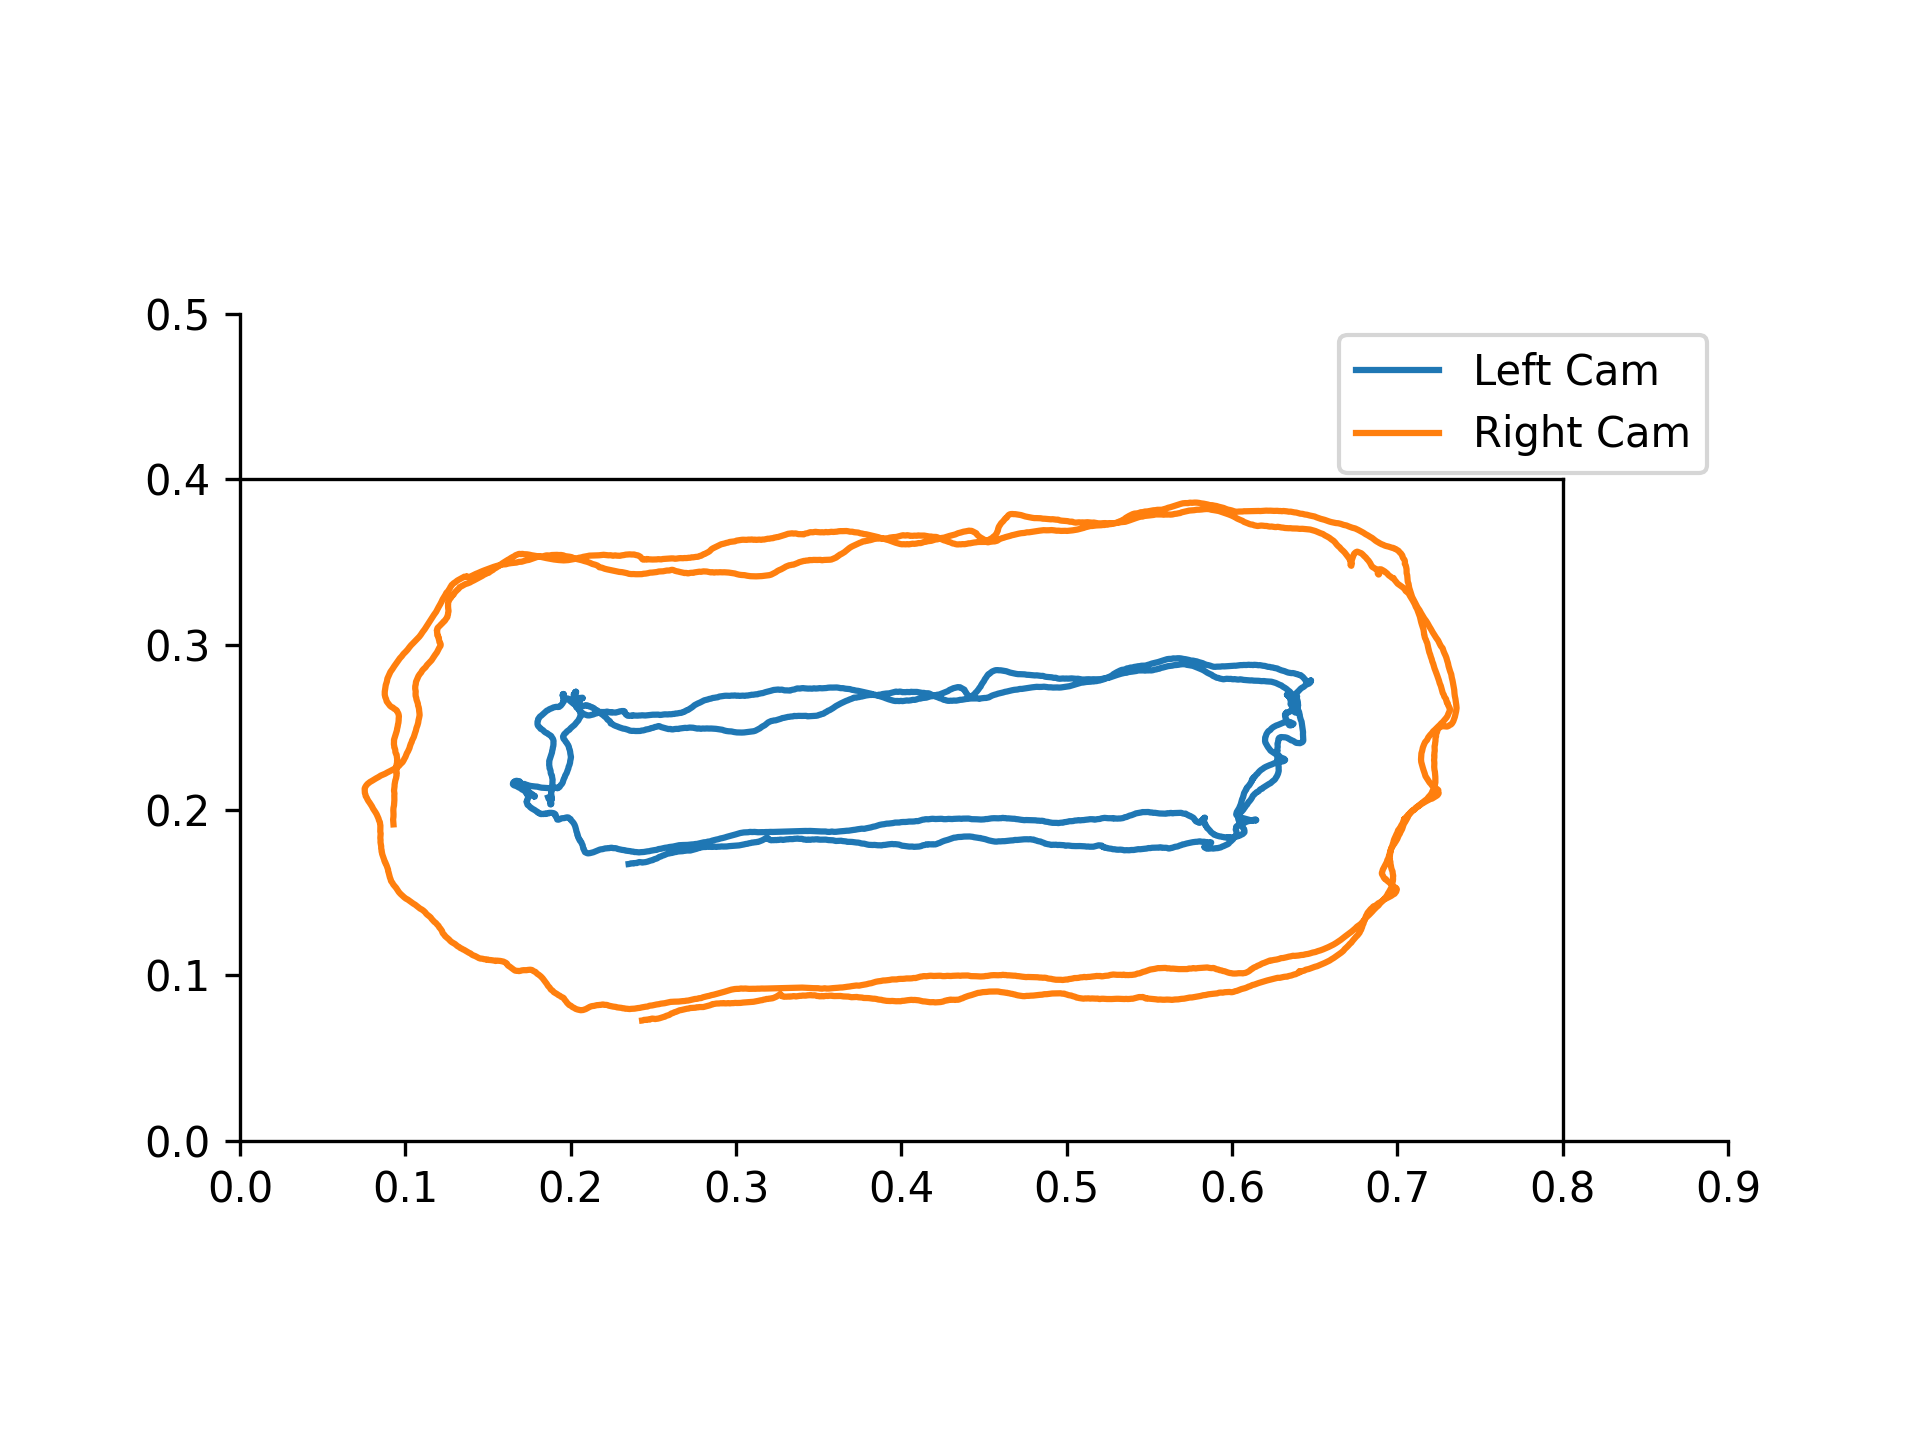
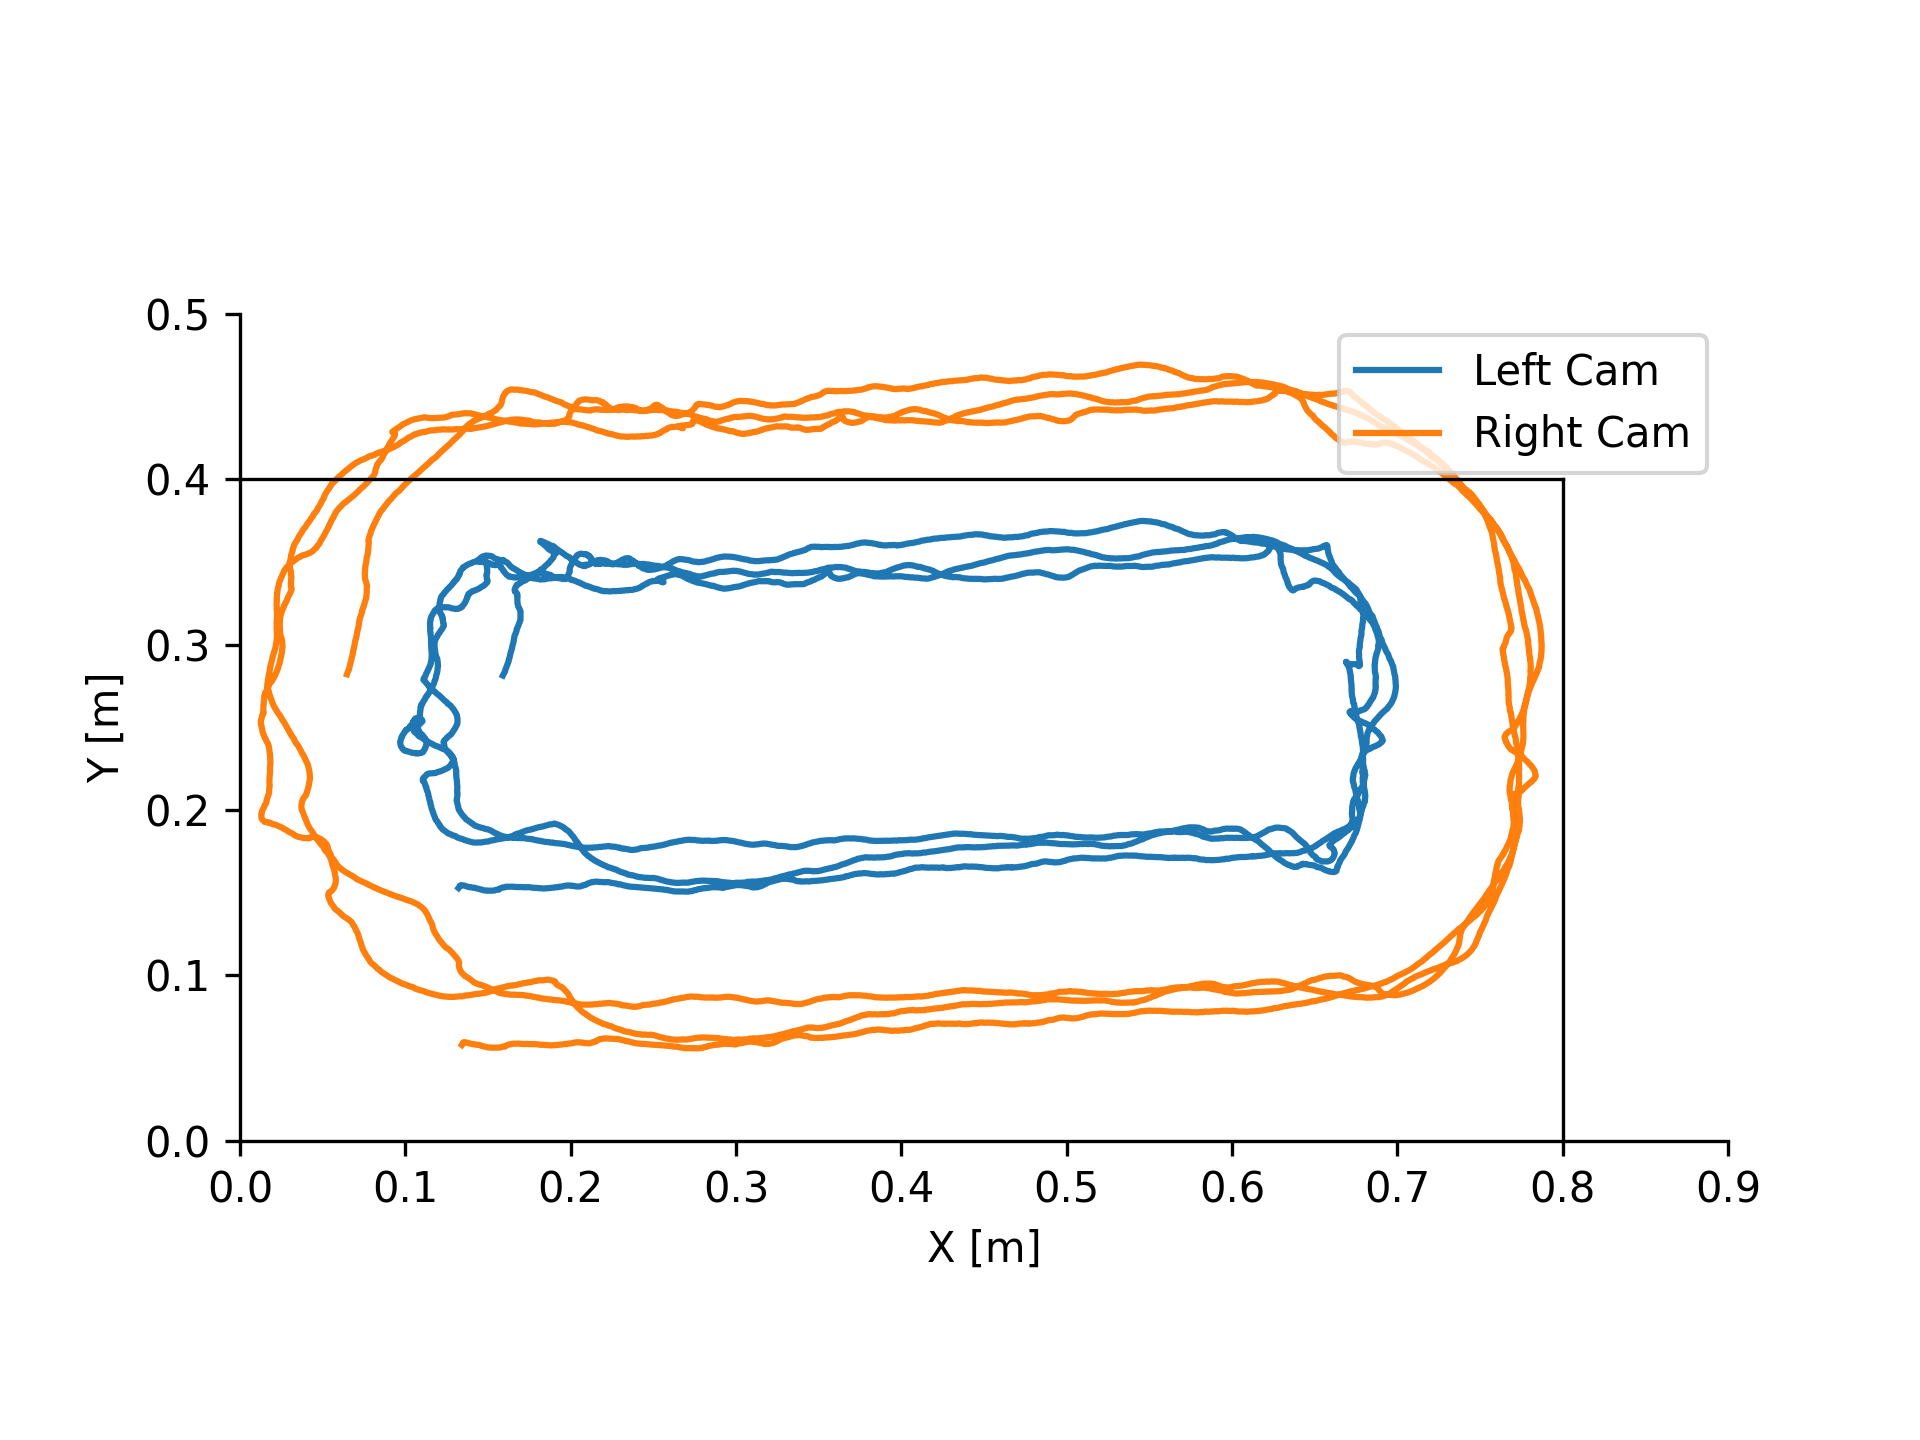
Minor change to cropping trajectory time

Changed region(s): [[0.125, 0.25, 0.8125, 0.75], [0.4688, 0.8438, 0.5312, 0.875], [0.0312, 0.4688, 0.0625, 0.5312]]

diff --git a/Data-collection/trajectory.py b/Data-collection/trajectory.py
@@ -407,6 +407,15 @@ class Trajectory3D:
         )
 
     def crop_time(self, start_time, end_time):
+        if start_time > end_time:
+            raise ValueError("The start time cannot be greater than the end time")
+
+        if start_time < 0:
+            start_time = 0
+
+        if end_time > self.timestamps_seconds[-1]:
+            end_time = self.timestamps_seconds[-1]
+
         # Get start and end indices
         start_index = np.argmax(self.timestamps_seconds >= start_time)
         end_index = np.argmax(self.timestamps_seconds >= end_time)
@@ -560,7 +569,7 @@ def show_gt_error(
     # Create a figure and axis
     fig, ax = plt.subplots()
 
-    # The transformation is calculated as follows ([] denotes the starting transformation and ' denotes a static frame)):
+    # The transformation is calculated as follows ([] denotes the starting transformation and ' denotes a static frame):
     # T_aqrm'_limu = T_aqrm'_sctrl * T_sctrl'_actrl* [T_actrl'_actrl] * T_actrl_sctrl * T_sctrl_limu
 
     trajectory_ctrl.apply_transformation(T_sctrl_actrl, right_hand=False)
@@ -593,10 +602,13 @@ def show_gt_error(
     ax.set_ylim(0, 0.5)
     ax.set_aspect("equal")
 
+    ax.set_xlabel("X [m]")
+    ax.set_ylabel("Y [m]")
+
     ax.legend(loc="upper right")
 
     if save:
-        plt.savefig("Ground_truth_error", dpi=300)
+        plt.savefig("Ground_truth_error_fixed", dpi=300)
     plt.show()
 
 
@@ -606,7 +618,7 @@ if __name__ == "__main__":
 
     # Load the trajectory data
     trajectory.load_csv(
-        csv_file="Data-collection/csv_data/RUD-PT/1,1_0_0_10.csv",
+        csv_file="Data-collection/csv_data/RUD-PT/2,1_1_1_1.csv",
         delimiter=";",
         drop_columns=["Email", "Framecount"],
         pose_columns=[
@@ -627,7 +639,7 @@ if __name__ == "__main__":
     trajectory.synchronise_initial_time(plot=False)
 
     # Crop the trajectory in time
-    trajectory.crop_time(34.00 - 27.495, 142.00 - 27.495)
+    # trajectory.crop_time(34.00 - 27.495, 142.00 - 27.495)
 
     # Define transformations
     alpha = 3.0 * np.pi / 180
@@ -682,4 +694,4 @@ if __name__ == "__main__":
 
     # Output converted trajectory as txt file
     trajectory.convert_orientation(new_orientation_type=OrientationType.QUATERNION)
-    trajectory.output_as_txt("Data-collection/txt_data/RUD-PT/1,1_0_0_10_gt.txt")
+    trajectory.output_as_txt("Data-collection/txt_data/RUD-PT/trajectory.txt")
